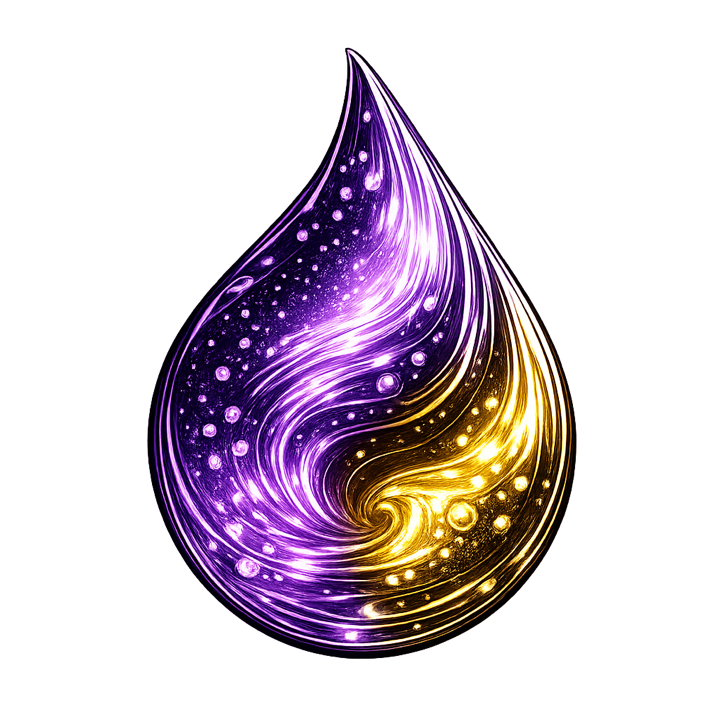
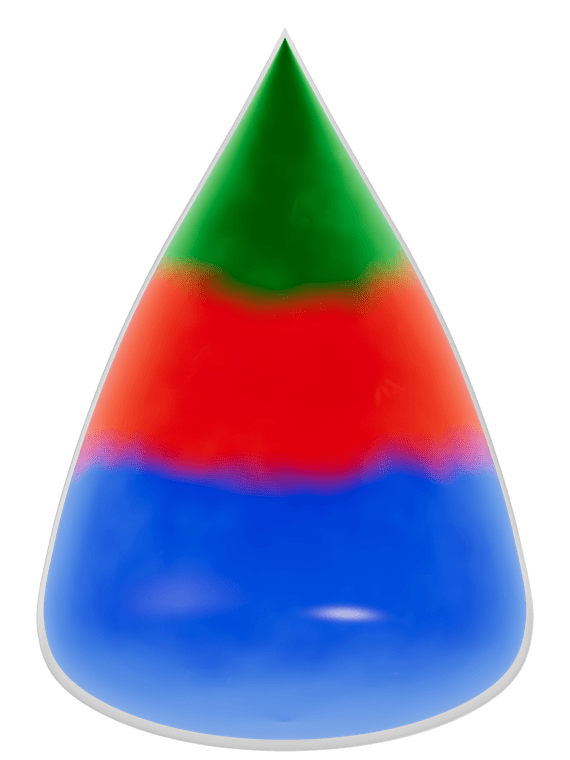
fix(web): hero gem is now the app's ACTUAL gem, captured from the build
The previous hero used public/dosha-gems/vata-pitta.png — the OLD gem palette
(purple/gold/teal 'poster paint', superseded by commit 1de0ec3) and an
arbitrary dual split, so it neither matched the current app nor read as neutral.

Captured the real current gem instead: rendered the live WebGL DoshaGem
(tridoshic 34/33/33) from the dev build, extracted it on a transparent ground,
and optimized to assets/dosha-gem.{png 53KB, webp 30KB}. Now the absorbing-glass
teardrop with the unified brand palette — Vata blue / Pitta terracotta / Kapha
green — identical to what the app shows. Gem is taller than wide, so hero
img dims + .hero-gem sizing/glow adjusted.

Design lead is the user (per design memory); capture method per user request.

diff --git a/website/assets/style.css b/website/assets/style.css
@@ -168,23 +168,23 @@ a[data-play-link] { visibility: hidden; }
 /* Hero visual — the dosha gem card as a floating tile. It carries its own
    rounded card surface, so it sits on a soft shadow rather than inside the
    phone bezel (which .peek below uses for the full home screen). */
-/* The dosha gem — a transparent render floating on a soft radial glow. */
+/* The dosha gem — the app's live WebGL gem, captured on a transparent ground
+   and floating on a soft radial glow. Taller than wide (teardrop). */
 .hero-gem {
   justify-self: center;
   position: relative;
-  width: min(420px, 84vw);
-  aspect-ratio: 1;
+  width: min(360px, 74vw);
   display: grid;
   place-items: center;
 }
 .hero-gem::before {
   content: "";
   position: absolute;
-  inset: 4%;
+  inset: -6% 2%;
   z-index: 0;
-  background: radial-gradient(circle at 50% 46%,
-    rgba(63, 122, 82, 0.20) 0%, rgba(194, 109, 74, 0.10) 42%, transparent 70%);
-  filter: blur(6px);
+  background: radial-gradient(circle at 50% 50%,
+    rgba(53, 112, 143, 0.18) 0%, rgba(158, 87, 32, 0.10) 44%, transparent 72%);
+  filter: blur(8px);
 }
 .hero-gem img {
   position: relative;

diff --git a/website/hi/index.html b/website/hi/index.html
@@ -85,7 +85,7 @@
             <source srcset="/assets/dosha-gem.webp" type="image/webp">
             <img src="/assets/dosha-gem.png"
                  alt="The Sanctuary का दोष रत्न — एक व्यक्तिगत आयुर्वेदिक प्रकृति रीडिंग, चमकते तरल-कांच के रत्न के रूप में"
-                 loading="eager" width="720" height="720">
+                 loading="eager" width="570" height="760">
           </picture>
         </figure>
       </div>

diff --git a/website/de/index.html b/website/de/index.html
@@ -85,7 +85,7 @@
             <source srcset="/assets/dosha-gem.webp" type="image/webp">
             <img src="/assets/dosha-gem.png"
                  alt="Das Dosha-Juwel von The Sanctuary — eine persönliche ayurvedische Konstitutions-Lesung als leuchtender Flüssigglas-Stein"
-                 loading="eager" width="720" height="720">
+                 loading="eager" width="570" height="760">
           </picture>
         </figure>
       </div>

diff --git a/website/index.html b/website/index.html
@@ -85,7 +85,7 @@
             <source srcset="/assets/dosha-gem.webp" type="image/webp">
             <img src="/assets/dosha-gem.png"
                  alt="The Sanctuary's dosha gem — a personalized Ayurvedic constitution reading rendered as a glowing liquid-glass stone"
-                 loading="eager" width="720" height="720">
+                 loading="eager" width="570" height="760">
           </picture>
         </figure>
       </div>
